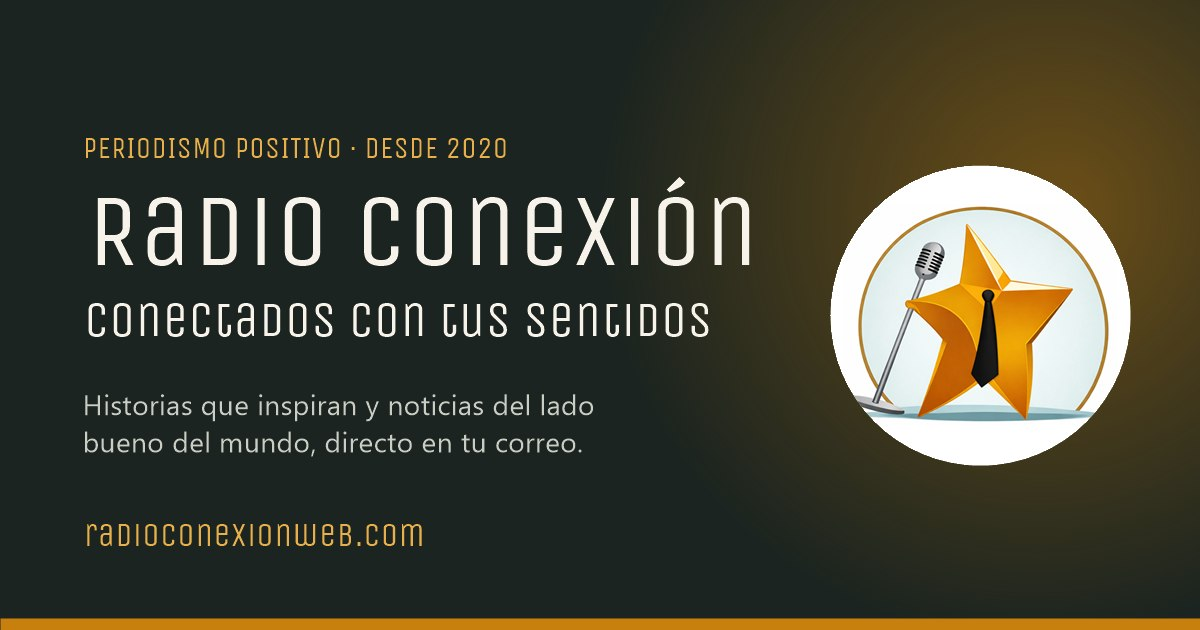
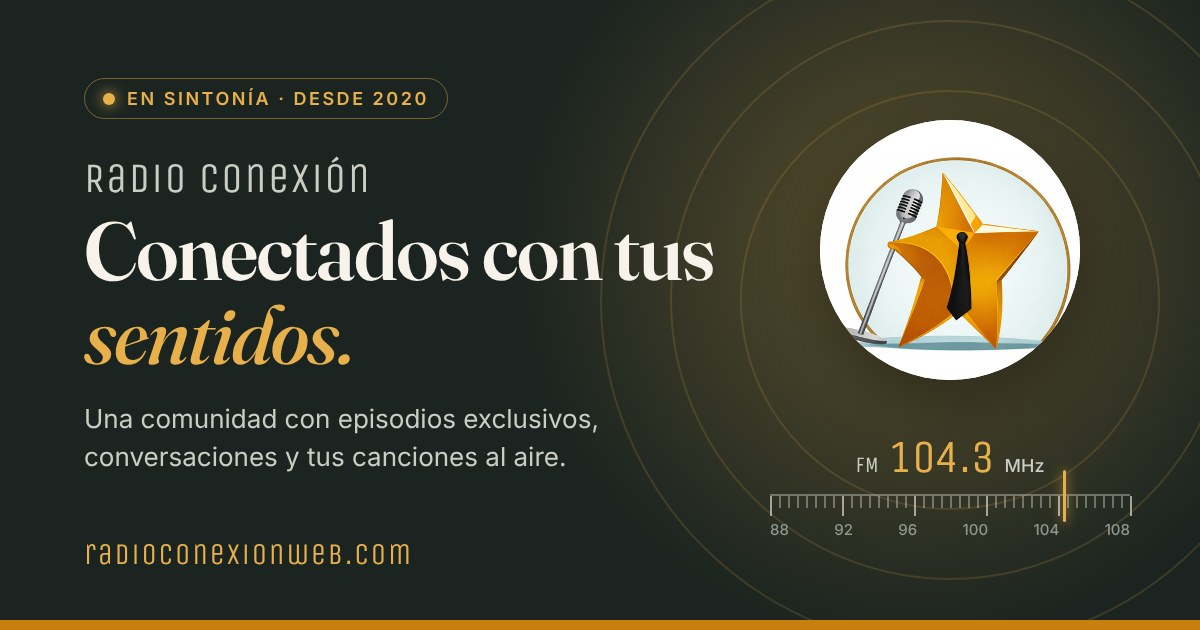
Actualizar la imagen Open Graph con el estilo Sintonía y la comunidad
Claude-Session: https://claude.ai/code/session_01XEKfgiyY8yAKAbkDm6axg6

diff --git a/condiciones.html b/condiciones.html
@@ -15,17 +15,17 @@
     <meta property="og:title" content="Condiciones y privacidad · Radio Conexión">
     <meta property="og:description" content="Condiciones de uso y política de privacidad de Radio Conexión y su comunidad: qué datos tratamos, tus derechos y cómo contactarnos.">
     <meta property="og:url" content="https://www.radioconexionweb.com/condiciones">
-    <meta property="og:image" content="https://www.radioconexionweb.com/assets/marca/og-imagen.jpg">
-    <meta property="og:image:secure_url" content="https://www.radioconexionweb.com/assets/marca/og-imagen.jpg">
+    <meta property="og:image" content="https://www.radioconexionweb.com/assets/marca/og-imagen.jpg?v=2">
+    <meta property="og:image:secure_url" content="https://www.radioconexionweb.com/assets/marca/og-imagen.jpg?v=2">
     <meta property="og:image:type" content="image/jpeg">
     <meta property="og:image:width" content="1200">
     <meta property="og:image:height" content="630">
-    <meta property="og:image:alt" content="Radio Conexión · Conectados con tus sentidos. Periodismo positivo desde 2020.">
+    <meta property="og:image:alt" content="Radio Conexión · Conectados con tus sentidos. Una comunidad con episodios exclusivos, conversaciones y tus canciones al aire.">
     <meta name="twitter:card" content="summary_large_image">
     <meta name="twitter:title" content="Condiciones y privacidad · Radio Conexión">
     <meta name="twitter:description" content="Condiciones de uso y política de privacidad de Radio Conexión y su comunidad: qué datos tratamos, tus derechos y cómo contactarnos.">
-    <meta name="twitter:image" content="https://www.radioconexionweb.com/assets/marca/og-imagen.jpg">
-    <meta name="twitter:image:alt" content="Radio Conexión · Conectados con tus sentidos.">
+    <meta name="twitter:image" content="https://www.radioconexionweb.com/assets/marca/og-imagen.jpg?v=2">
+    <meta name="twitter:image:alt" content="Radio Conexión · Conectados con tus sentidos. Una comunidad con episodios exclusivos, conversaciones y tus canciones al aire.">
     <link rel="icon" type="image/png" sizes="96x96" href="assets/marca/logo-96.png">
     <link rel="icon" type="image/png" sizes="192x192" href="assets/marca/logo-192.png">
     <link rel="apple-touch-icon" href="assets/marca/logo-192.png">
@@ -58,7 +58,7 @@
             "width": 512,
             "height": 512
           },
-          "image": "https://www.radioconexionweb.com/assets/marca/og-imagen.jpg",
+          "image": "https://www.radioconexionweb.com/assets/marca/og-imagen.jpg?v=2",
           "foundingDate": "2020",
           "inLanguage": "es-CL",
           "areaServed": {
@@ -94,7 +94,7 @@
           },
           "primaryImageOfPage": {
             "@type": "ImageObject",
-            "url": "https://www.radioconexionweb.com/assets/marca/og-imagen.jpg",
+            "url": "https://www.radioconexionweb.com/assets/marca/og-imagen.jpg?v=2",
             "width": 1200,
             "height": 630
           },

diff --git a/inicio.html b/inicio.html
@@ -15,17 +15,17 @@
     <meta property="og:title" content="Radio Conexión · Conectados con tus sentidos">
     <meta property="og:description" content="Radio Conexión es una comunidad: episodios exclusivos, comentarios, pedidos de canciones y saludos. Solicita tu ingreso con Google.">
     <meta property="og:url" content="https://www.radioconexionweb.com/inicio">
-    <meta property="og:image" content="https://www.radioconexionweb.com/assets/marca/og-imagen.jpg">
-    <meta property="og:image:secure_url" content="https://www.radioconexionweb.com/assets/marca/og-imagen.jpg">
+    <meta property="og:image" content="https://www.radioconexionweb.com/assets/marca/og-imagen.jpg?v=2">
+    <meta property="og:image:secure_url" content="https://www.radioconexionweb.com/assets/marca/og-imagen.jpg?v=2">
     <meta property="og:image:type" content="image/jpeg">
     <meta property="og:image:width" content="1200">
     <meta property="og:image:height" content="630">
-    <meta property="og:image:alt" content="Radio Conexión · Conectados con tus sentidos. Periodismo positivo desde 2020.">
+    <meta property="og:image:alt" content="Radio Conexión · Conectados con tus sentidos. Una comunidad con episodios exclusivos, conversaciones y tus canciones al aire.">
     <meta name="twitter:card" content="summary_large_image">
     <meta name="twitter:title" content="Radio Conexión · Conectados con tus sentidos">
     <meta name="twitter:description" content="Radio Conexión es una comunidad: episodios exclusivos, comentarios, pedidos de canciones y saludos. Solicita tu ingreso con Google.">
-    <meta name="twitter:image" content="https://www.radioconexionweb.com/assets/marca/og-imagen.jpg">
-    <meta name="twitter:image:alt" content="Radio Conexión · Conectados con tus sentidos.">
+    <meta name="twitter:image" content="https://www.radioconexionweb.com/assets/marca/og-imagen.jpg?v=2">
+    <meta name="twitter:image:alt" content="Radio Conexión · Conectados con tus sentidos. Una comunidad con episodios exclusivos, conversaciones y tus canciones al aire.">
     <link rel="icon" type="image/png" sizes="96x96" href="assets/marca/logo-96.png">
     <link rel="icon" type="image/png" sizes="192x192" href="assets/marca/logo-192.png">
     <link rel="apple-touch-icon" href="assets/marca/logo-192.png">
@@ -60,7 +60,7 @@
             "width": 512,
             "height": 512
           },
-          "image": "https://www.radioconexionweb.com/assets/marca/og-imagen.jpg",
+          "image": "https://www.radioconexionweb.com/assets/marca/og-imagen.jpg?v=2",
           "foundingDate": "2020",
           "inLanguage": "es-CL",
           "areaServed": {
@@ -96,7 +96,7 @@
           },
           "primaryImageOfPage": {
             "@type": "ImageObject",
-            "url": "https://www.radioconexionweb.com/assets/marca/og-imagen.jpg",
+            "url": "https://www.radioconexionweb.com/assets/marca/og-imagen.jpg?v=2",
             "width": 1200,
             "height": 630
           },

diff --git a/historia.html b/historia.html
@@ -15,17 +15,17 @@
     <meta property="og:title" content="Historia · Radio Conexión">
     <meta property="og:description" content="Conoce la historia de Radio Conexión, las palabras de su fundador y el museo de logos de la radio.">
     <meta property="og:url" content="https://www.radioconexionweb.com/historia">
-    <meta property="og:image" content="https://www.radioconexionweb.com/assets/marca/og-imagen.jpg">
-    <meta property="og:image:secure_url" content="https://www.radioconexionweb.com/assets/marca/og-imagen.jpg">
+    <meta property="og:image" content="https://www.radioconexionweb.com/assets/marca/og-imagen.jpg?v=2">
+    <meta property="og:image:secure_url" content="https://www.radioconexionweb.com/assets/marca/og-imagen.jpg?v=2">
     <meta property="og:image:type" content="image/jpeg">
     <meta property="og:image:width" content="1200">
     <meta property="og:image:height" content="630">
-    <meta property="og:image:alt" content="Radio Conexión · Conectados con tus sentidos. Periodismo positivo desde 2020.">
+    <meta property="og:image:alt" content="Radio Conexión · Conectados con tus sentidos. Una comunidad con episodios exclusivos, conversaciones y tus canciones al aire.">
     <meta name="twitter:card" content="summary_large_image">
     <meta name="twitter:title" content="Historia · Radio Conexión">
     <meta name="twitter:description" content="Conoce la historia de Radio Conexión, las palabras de su fundador y el museo de logos de la radio.">
-    <meta name="twitter:image" content="https://www.radioconexionweb.com/assets/marca/og-imagen.jpg">
-    <meta name="twitter:image:alt" content="Radio Conexión · Conectados con tus sentidos.">
+    <meta name="twitter:image" content="https://www.radioconexionweb.com/assets/marca/og-imagen.jpg?v=2">
+    <meta name="twitter:image:alt" content="Radio Conexión · Conectados con tus sentidos. Una comunidad con episodios exclusivos, conversaciones y tus canciones al aire.">
     <link rel="icon" type="image/png" sizes="96x96" href="assets/marca/logo-96.png">
     <link rel="icon" type="image/png" sizes="192x192" href="assets/marca/logo-192.png">
     <link rel="apple-touch-icon" href="assets/marca/logo-192.png">
@@ -58,7 +58,7 @@
             "width": 512,
             "height": 512
           },
-          "image": "https://www.radioconexionweb.com/assets/marca/og-imagen.jpg",
+          "image": "https://www.radioconexionweb.com/assets/marca/og-imagen.jpg?v=2",
           "foundingDate": "2020",
           "inLanguage": "es-CL",
           "areaServed": {
@@ -94,7 +94,7 @@
           },
           "primaryImageOfPage": {
             "@type": "ImageObject",
-            "url": "https://www.radioconexionweb.com/assets/marca/og-imagen.jpg",
+            "url": "https://www.radioconexionweb.com/assets/marca/og-imagen.jpg?v=2",
             "width": 1200,
             "height": 630
           },

diff --git a/tiempo.html b/tiempo.html
@@ -15,17 +15,17 @@
     <meta property="og:title" content="Tiempo · Radio Conexión">
     <meta property="og:description" content="Tiempo actual y pronóstico oficial de la Dirección Meteorológica de Chile, en Radio Conexión.">
     <meta property="og:url" content="https://www.radioconexionweb.com/tiempo">
-    <meta property="og:image" content="https://www.radioconexionweb.com/assets/marca/og-imagen.jpg">
-    <meta property="og:image:secure_url" content="https://www.radioconexionweb.com/assets/marca/og-imagen.jpg">
+    <meta property="og:image" content="https://www.radioconexionweb.com/assets/marca/og-imagen.jpg?v=2">
+    <meta property="og:image:secure_url" content="https://www.radioconexionweb.com/assets/marca/og-imagen.jpg?v=2">
     <meta property="og:image:type" content="image/jpeg">
     <meta property="og:image:width" content="1200">
     <meta property="og:image:height" content="630">
-    <meta property="og:image:alt" content="Radio Conexión · Conectados con tus sentidos. Periodismo positivo desde 2020.">
+    <meta property="og:image:alt" content="Radio Conexión · Conectados con tus sentidos. Una comunidad con episodios exclusivos, conversaciones y tus canciones al aire.">
     <meta name="twitter:card" content="summary_large_image">
     <meta name="twitter:title" content="Tiempo · Radio Conexión">
     <meta name="twitter:description" content="Tiempo actual y pronóstico oficial de la Dirección Meteorológica de Chile, en Radio Conexión.">
-    <meta name="twitter:image" content="https://www.radioconexionweb.com/assets/marca/og-imagen.jpg">
-    <meta name="twitter:image:alt" content="Radio Conexión · Conectados con tus sentidos.">
+    <meta name="twitter:image" content="https://www.radioconexionweb.com/assets/marca/og-imagen.jpg?v=2">
+    <meta name="twitter:image:alt" content="Radio Conexión · Conectados con tus sentidos. Una comunidad con episodios exclusivos, conversaciones y tus canciones al aire.">
     <link rel="icon" type="image/png" sizes="96x96" href="assets/marca/logo-96.png">
     <link rel="icon" type="image/png" sizes="192x192" href="assets/marca/logo-192.png">
     <link rel="apple-touch-icon" href="assets/marca/logo-192.png">
@@ -58,7 +58,7 @@
             "width": 512,
             "height": 512
           },
-          "image": "https://www.radioconexionweb.com/assets/marca/og-imagen.jpg",
+          "image": "https://www.radioconexionweb.com/assets/marca/og-imagen.jpg?v=2",
           "foundingDate": "2020",
           "inLanguage": "es-CL",
           "areaServed": {
@@ -94,7 +94,7 @@
           },
           "primaryImageOfPage": {
             "@type": "ImageObject",
-            "url": "https://www.radioconexionweb.com/assets/marca/og-imagen.jpg",
+            "url": "https://www.radioconexionweb.com/assets/marca/og-imagen.jpg?v=2",
             "width": 1200,
             "height": 630
           },

diff --git a/comunidad.html b/comunidad.html
@@ -15,17 +15,17 @@
     <meta property="og:title" content="Comunidad · Radio Conexión">
     <meta property="og:description" content="La comunidad de Radio Conexión: episodios, perfiles y miembros conectados con tus sentidos.">
     <meta property="og:url" content="https://www.radioconexionweb.com/comunidad">
-    <meta property="og:image" content="https://www.radioconexionweb.com/assets/marca/og-imagen.jpg">
-    <meta property="og:image:secure_url" content="https://www.radioconexionweb.com/assets/marca/og-imagen.jpg">
+    <meta property="og:image" content="https://www.radioconexionweb.com/assets/marca/og-imagen.jpg?v=2">
+    <meta property="og:image:secure_url" content="https://www.radioconexionweb.com/assets/marca/og-imagen.jpg?v=2">
     <meta property="og:image:type" content="image/jpeg">
     <meta property="og:image:width" content="1200">
     <meta property="og:image:height" content="630">
-    <meta property="og:image:alt" content="Comunidad · Radio Conexión. Periodismo positivo desde 2020.">
+    <meta property="og:image:alt" content="Radio Conexión · Conectados con tus sentidos. Una comunidad con episodios exclusivos, conversaciones y tus canciones al aire.">
     <meta name="twitter:card" content="summary_large_image">
     <meta name="twitter:title" content="Comunidad · Radio Conexión">
     <meta name="twitter:description" content="La comunidad de Radio Conexión: episodios, perfiles y miembros conectados con tus sentidos.">
-    <meta name="twitter:image" content="https://www.radioconexionweb.com/assets/marca/og-imagen.jpg">
-    <meta name="twitter:image:alt" content="Comunidad · Radio Conexión.">
+    <meta name="twitter:image" content="https://www.radioconexionweb.com/assets/marca/og-imagen.jpg?v=2">
+    <meta name="twitter:image:alt" content="Radio Conexión · Conectados con tus sentidos. Una comunidad con episodios exclusivos, conversaciones y tus canciones al aire.">
     <link rel="icon" type="image/png" sizes="96x96" href="assets/marca/logo-96.png">
     <link rel="icon" type="image/png" sizes="192x192" href="assets/marca/logo-192.png">
     <link rel="apple-touch-icon" href="assets/marca/logo-192.png">

diff --git a/admin.html b/admin.html
@@ -15,17 +15,17 @@
     <meta property="og:title" content="Administración · Radio Conexión">
     <meta property="og:description" content="Panel de administración de la comunidad de Radio Conexión.">
     <meta property="og:url" content="https://www.radioconexionweb.com/admin">
-    <meta property="og:image" content="https://www.radioconexionweb.com/assets/marca/og-imagen.jpg">
-    <meta property="og:image:secure_url" content="https://www.radioconexionweb.com/assets/marca/og-imagen.jpg">
+    <meta property="og:image" content="https://www.radioconexionweb.com/assets/marca/og-imagen.jpg?v=2">
+    <meta property="og:image:secure_url" content="https://www.radioconexionweb.com/assets/marca/og-imagen.jpg?v=2">
     <meta property="og:image:type" content="image/jpeg">
     <meta property="og:image:width" content="1200">
     <meta property="og:image:height" content="630">
-    <meta property="og:image:alt" content="Administración · Radio Conexión. Periodismo positivo desde 2020.">
+    <meta property="og:image:alt" content="Radio Conexión · Conectados con tus sentidos. Una comunidad con episodios exclusivos, conversaciones y tus canciones al aire.">
     <meta name="twitter:card" content="summary_large_image">
     <meta name="twitter:title" content="Administración · Radio Conexión">
     <meta name="twitter:description" content="Panel de administración de la comunidad de Radio Conexión.">
-    <meta name="twitter:image" content="https://www.radioconexionweb.com/assets/marca/og-imagen.jpg">
-    <meta name="twitter:image:alt" content="Administración · Radio Conexión.">
+    <meta name="twitter:image" content="https://www.radioconexionweb.com/assets/marca/og-imagen.jpg?v=2">
+    <meta name="twitter:image:alt" content="Radio Conexión · Conectados con tus sentidos. Una comunidad con episodios exclusivos, conversaciones y tus canciones al aire.">
     <link rel="icon" type="image/png" sizes="96x96" href="assets/marca/logo-96.png">
     <link rel="icon" type="image/png" sizes="192x192" href="assets/marca/logo-192.png">
     <link rel="apple-touch-icon" href="assets/marca/logo-192.png">

diff --git a/404.html b/404.html
@@ -12,17 +12,17 @@
     <meta property="og:locale" content="es_CL">
     <meta property="og:title" content="Página no encontrada · Radio Conexión">
     <meta property="og:description" content="La página que buscas no existe o cambió de lugar.">
-    <meta property="og:image" content="https://www.radioconexionweb.com/assets/marca/og-imagen.jpg">
-    <meta property="og:image:secure_url" content="https://www.radioconexionweb.com/assets/marca/og-imagen.jpg">
+    <meta property="og:image" content="https://www.radioconexionweb.com/assets/marca/og-imagen.jpg?v=2">
+    <meta property="og:image:secure_url" content="https://www.radioconexionweb.com/assets/marca/og-imagen.jpg?v=2">
     <meta property="og:image:type" content="image/jpeg">
     <meta property="og:image:width" content="1200">
     <meta property="og:image:height" content="630">
-    <meta property="og:image:alt" content="Radio Conexión · Conectados con tus sentidos. Periodismo positivo desde 2020.">
+    <meta property="og:image:alt" content="Radio Conexión · Conectados con tus sentidos. Una comunidad con episodios exclusivos, conversaciones y tus canciones al aire.">
     <meta name="twitter:card" content="summary_large_image">
     <meta name="twitter:title" content="Página no encontrada · Radio Conexión">
     <meta name="twitter:description" content="La página que buscas no existe o cambió de lugar.">
-    <meta name="twitter:image" content="https://www.radioconexionweb.com/assets/marca/og-imagen.jpg">
-    <meta name="twitter:image:alt" content="Radio Conexión · Conectados con tus sentidos.">
+    <meta name="twitter:image" content="https://www.radioconexionweb.com/assets/marca/og-imagen.jpg?v=2">
+    <meta name="twitter:image:alt" content="Radio Conexión · Conectados con tus sentidos. Una comunidad con episodios exclusivos, conversaciones y tus canciones al aire.">
     <link rel="icon" type="image/png" sizes="96x96" href="/assets/marca/logo-96.png">
     <link rel="icon" type="image/png" sizes="192x192" href="/assets/marca/logo-192.png">
     <link rel="apple-touch-icon" href="/assets/marca/logo-192.png">
